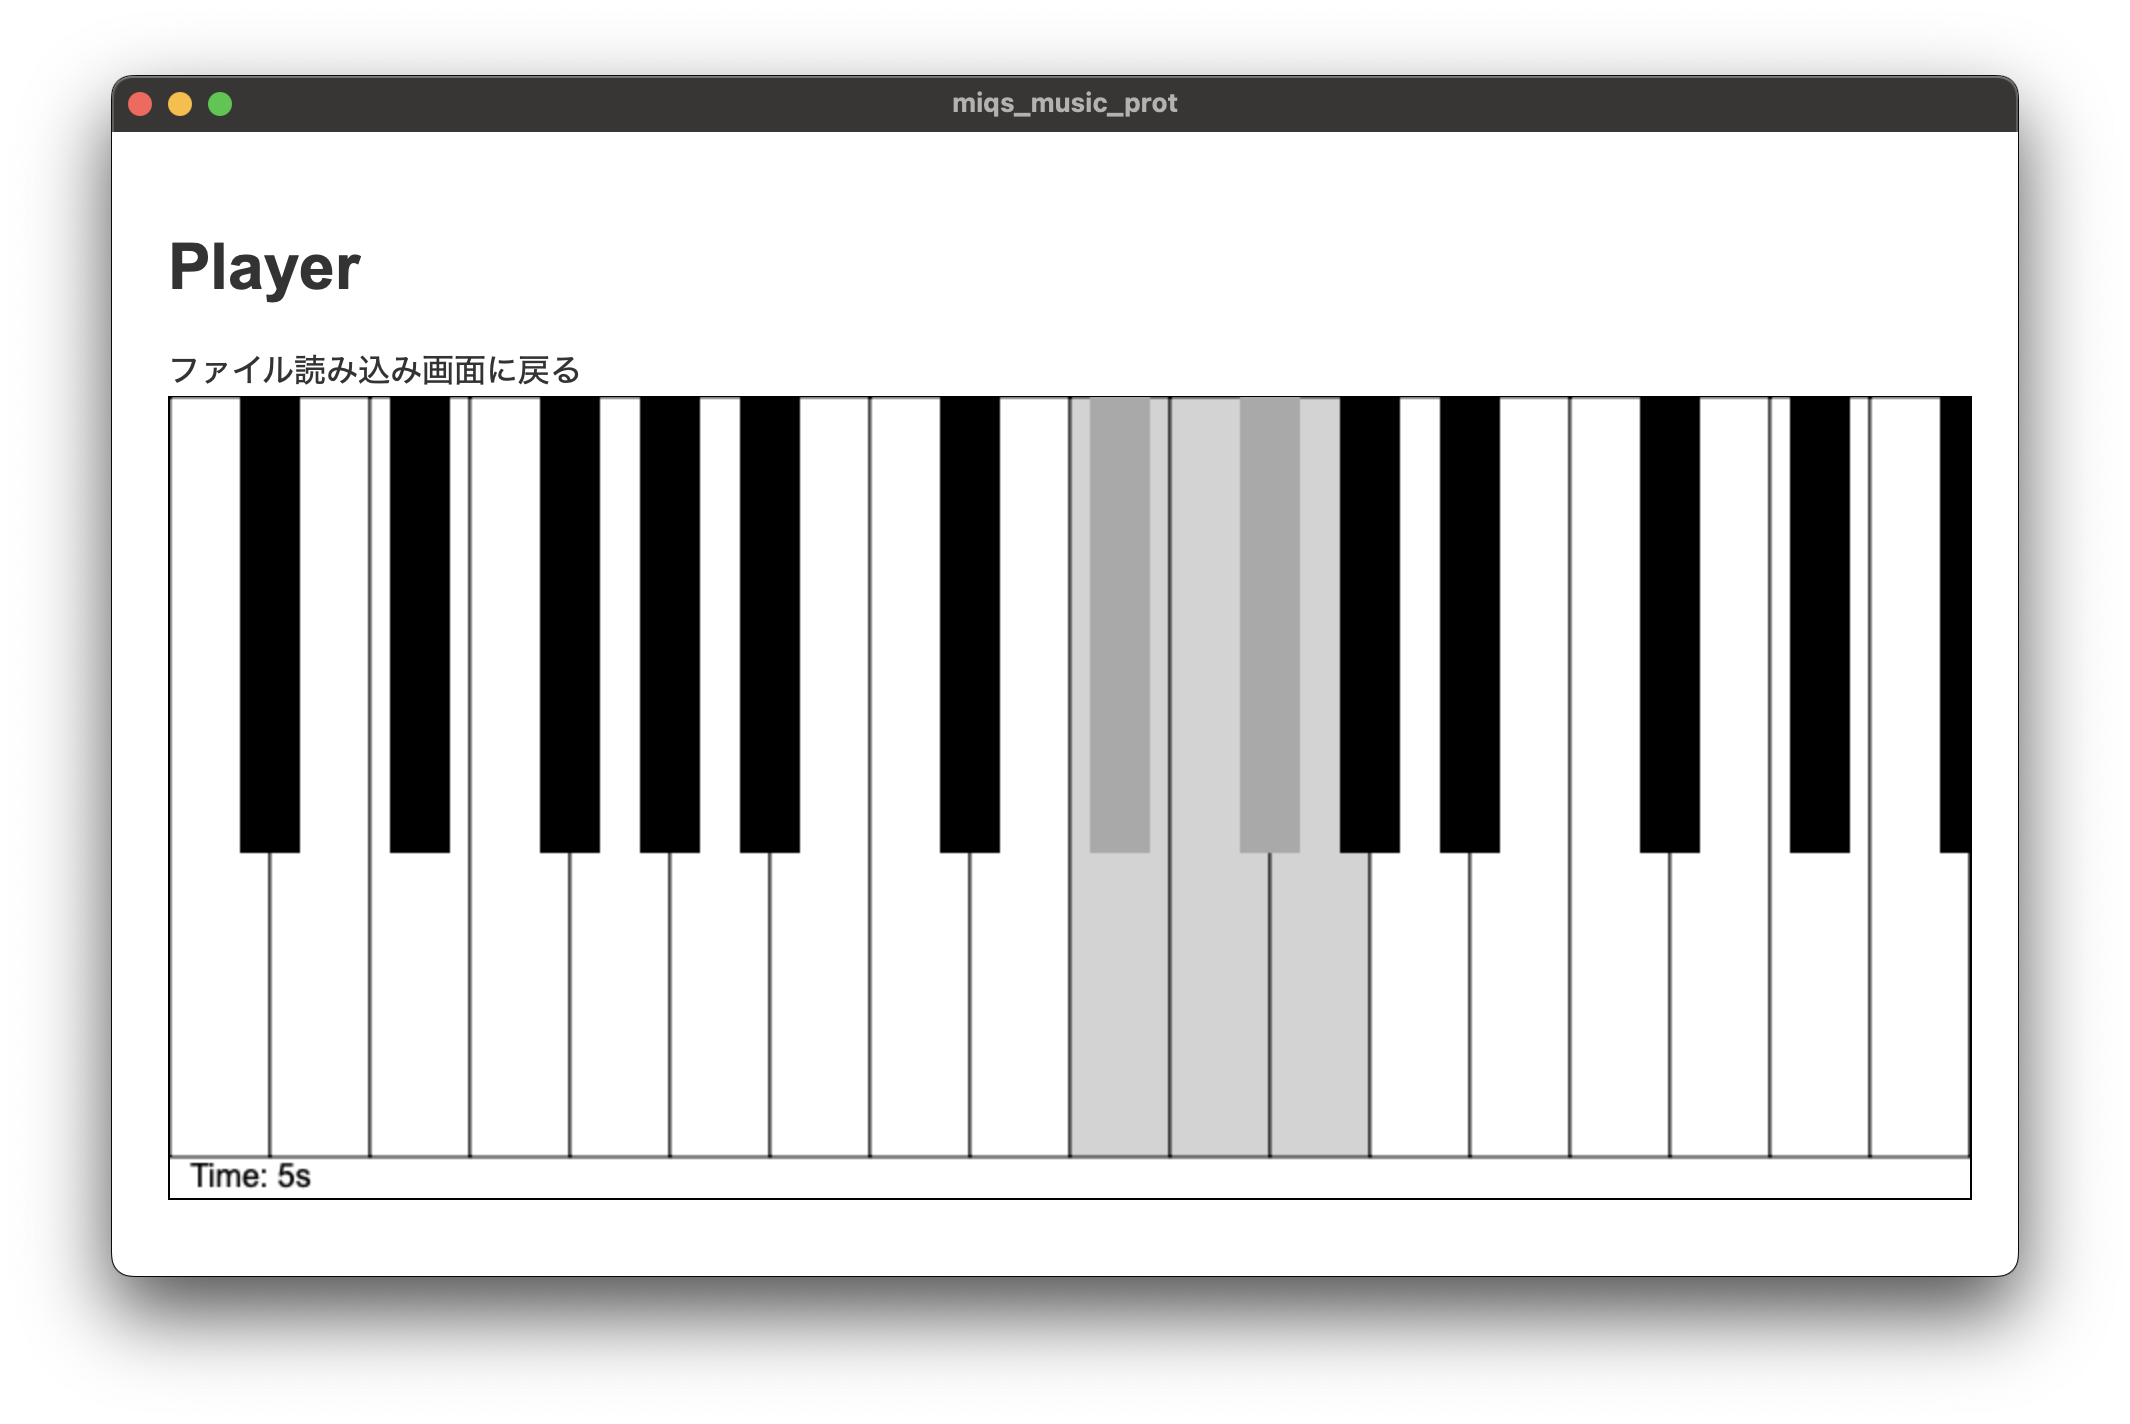
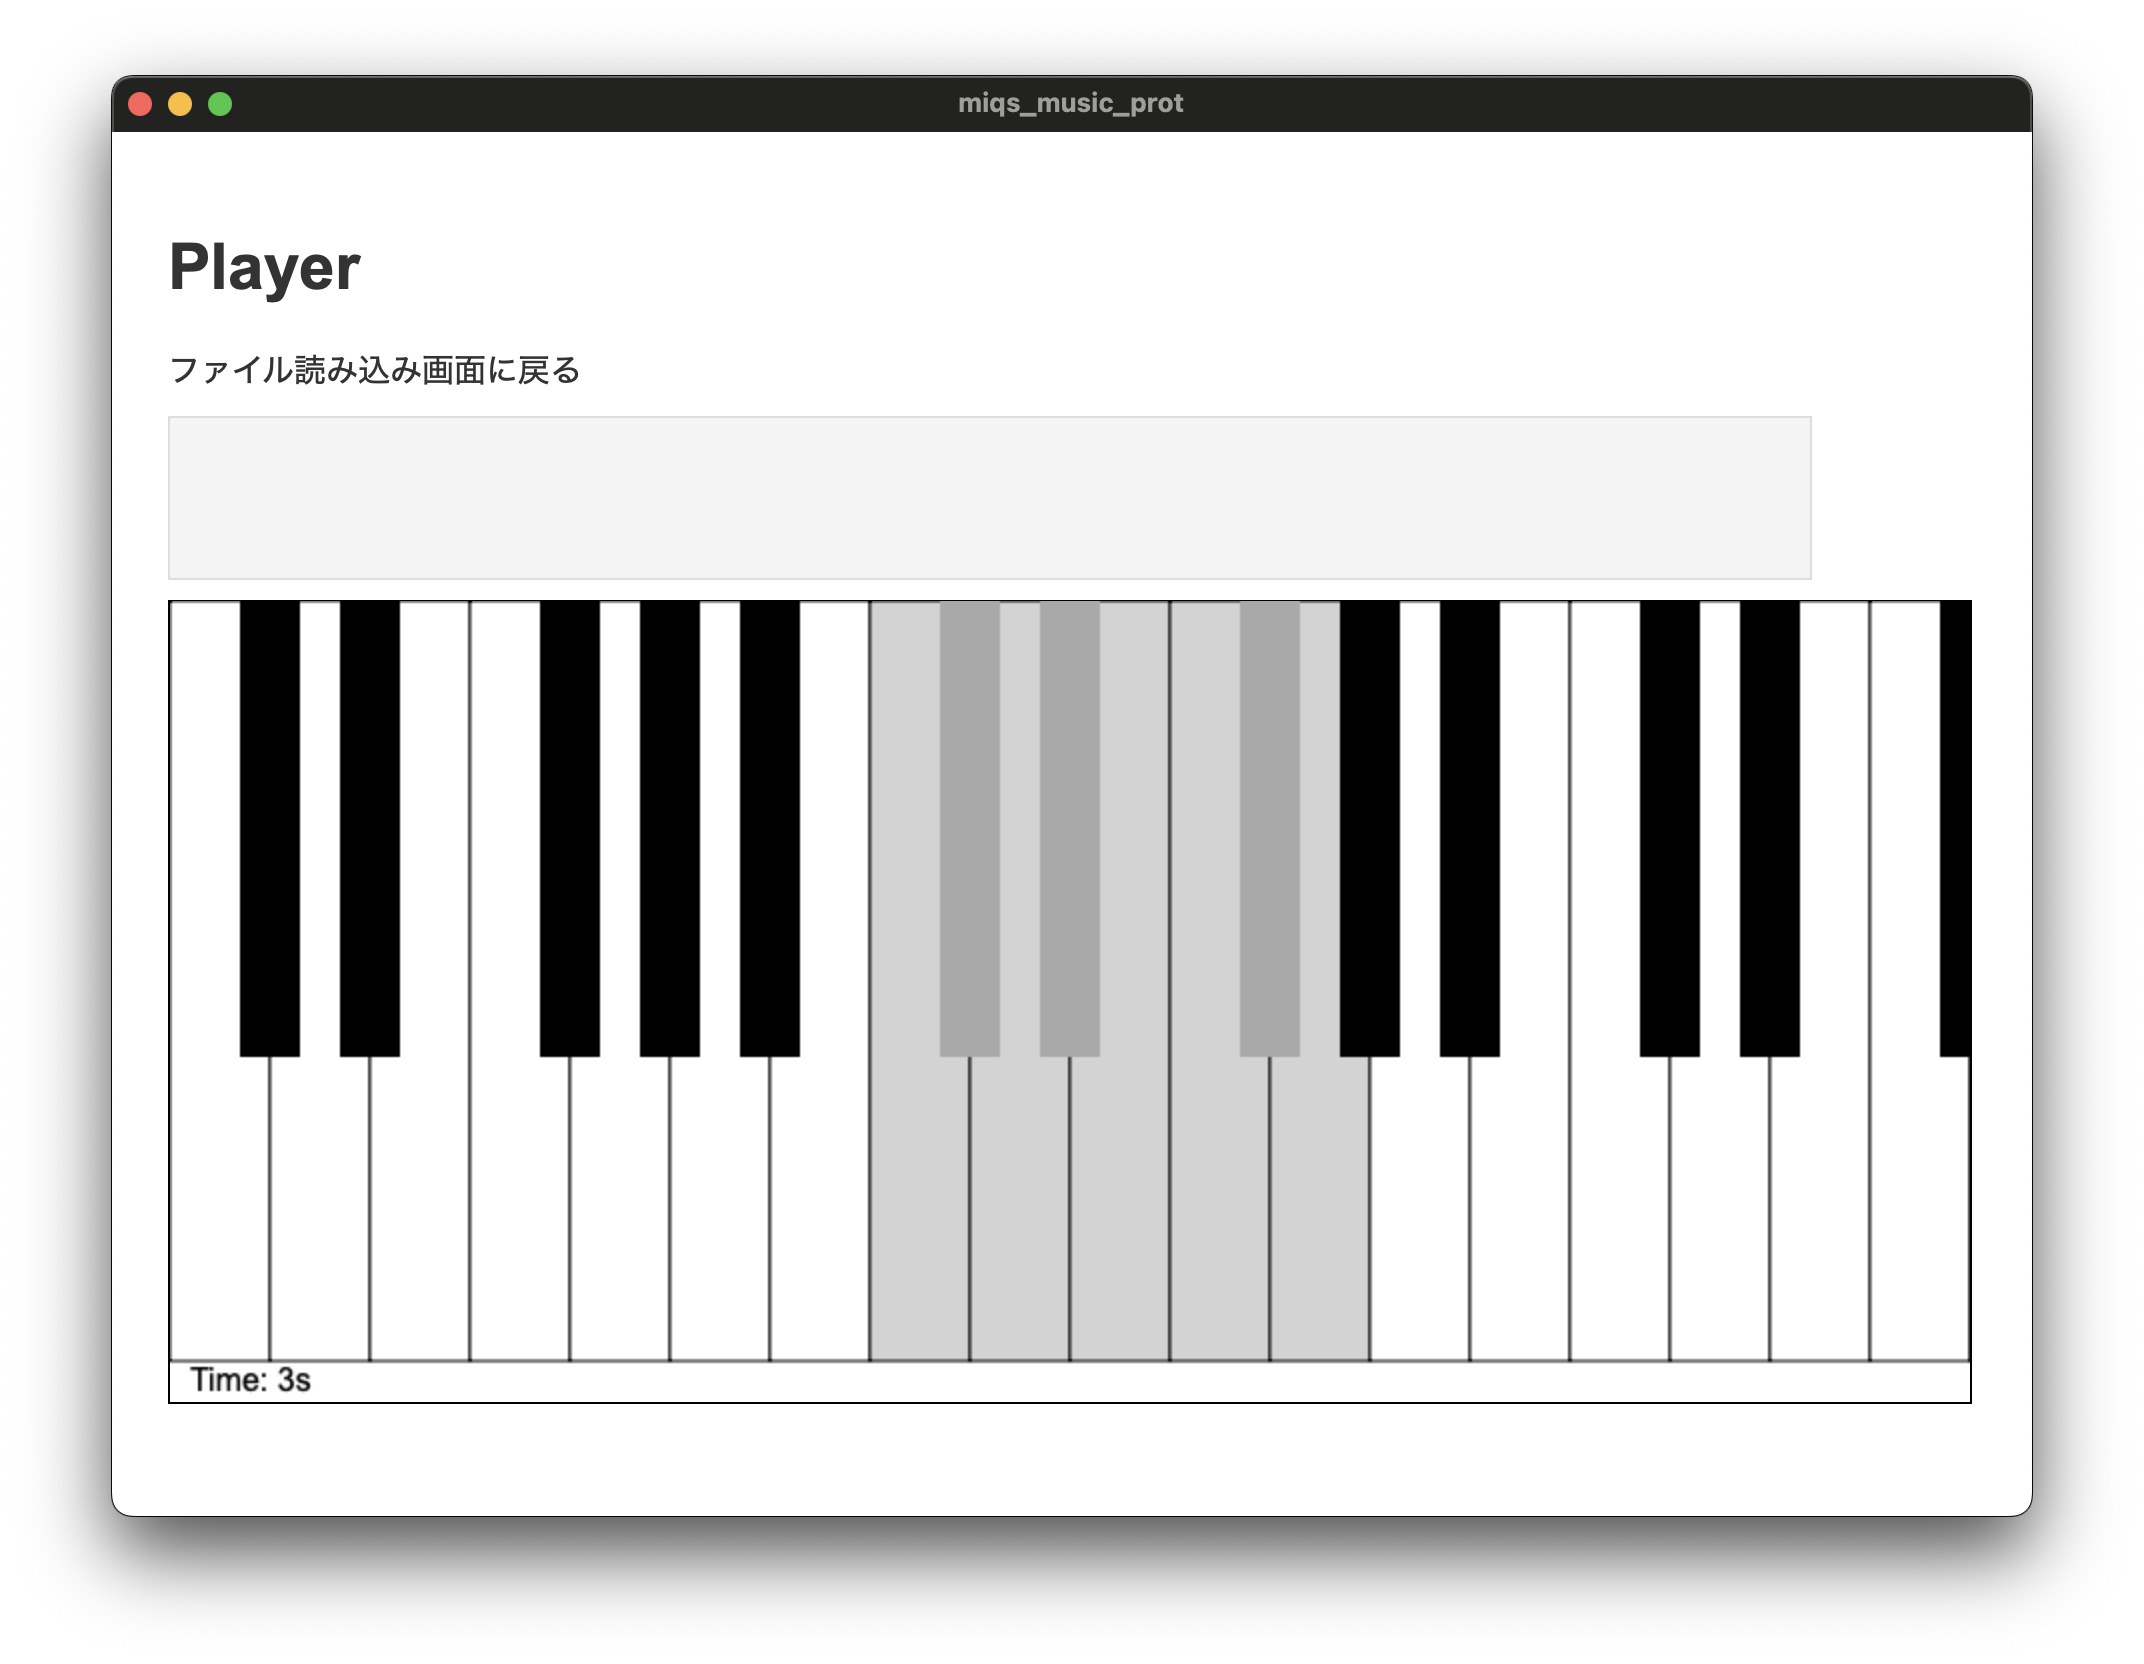
feat: GUI画面プロトタイプ完成

Changed region(s): [[0.062, 0.1545, 0.9296, 0.8652], [0.031, 0.0309, 0.9606, 0.0927], [0.031, 0.8961, 0.9606, 0.9579]]

diff --git a/src/main.js b/src/main.js
@@ -87,19 +87,11 @@ document.getElementById('sendButton').addEventListener('click', async () => {
         window.location.href = "player.html";
     } catch (error) {
         console.error(`Error sending file size: ${error}`);  // エラーログ
-        //#console div 内に送信失敗メッセージを表示
-        const consoleDiv = document.getElementById('console');
-        // consoleDiv 内に p タグが存在するか確認
-        const existingPTag = consoleDiv.querySelector('p');
-
-        // p タグが存在しない場合、新しい p タグを作成
-        if (!existingPTag) {
-            const message = document.createElement('p');
-            message.textContent = 'Error sending file size';
-            consoleDiv.appendChild(message);
-        } else {
-            // 既存の p タグがある場合、そのテキストを更新
-            existingPTag.textContent = 'Error sending file size';
-        }
+        // #console textarea 内に送信失敗メッセージを表示
+        const consoleArea = document.getElementById('console');
+        // 自動で一番下までスクロール
+        consoleArea.scrollTop = consoleArea.scrollHeight;
+        // consoleArea 内にエラーメッセージを追加
+        consoleArea.value += 'Error sending file size\n';
     }
 });

diff --git a/src/styles.css b/src/styles.css
@@ -37,3 +37,19 @@ a {
 a:hover {
   opacity: 0.8;
 }
+
+#console {
+  display: block;
+  max-width: 800px;
+  width: 100%;
+  height: 60px;
+  margin: 10px 0;
+  padding: 10px;
+  background-color: #f4f4f4;
+  border: 1px solid #ddd;
+  overflow-y: auto; /* Enable vertical scrolling */
+  font-family: monospace;
+  // Textarea内編集不可能にする
+  resize: none;
+  cursor: text;
+}

diff --git a/src/index.html b/src/index.html
@@ -15,7 +15,7 @@
     <p id="fileSize">ファイルサイズ: N/A</p>
     <button id="sendButton" style="display: none;">送信</button>
     <p id="warningMessage" style="display: none; color:red;">MIDI形式のファイルを選択してください</p>
-    <div id="console"></div>
+    <textarea readonly id="console"></textarea>
 
     <a href="player.html">Player画面</a>
 

diff --git a/src/player.html b/src/player.html
@@ -14,6 +14,9 @@
     <a href="index.html">ファイル読み込み画面に戻る</a>
   </div>
 
+  <!-- Consoleを実装 -->
+  <textarea readonly id="console"></textarea>
+
   <canvas id="pianoRoll" width="900" height="400" style="border: 1px solid black;"></canvas>
   <script src="player.js"></script>
 
